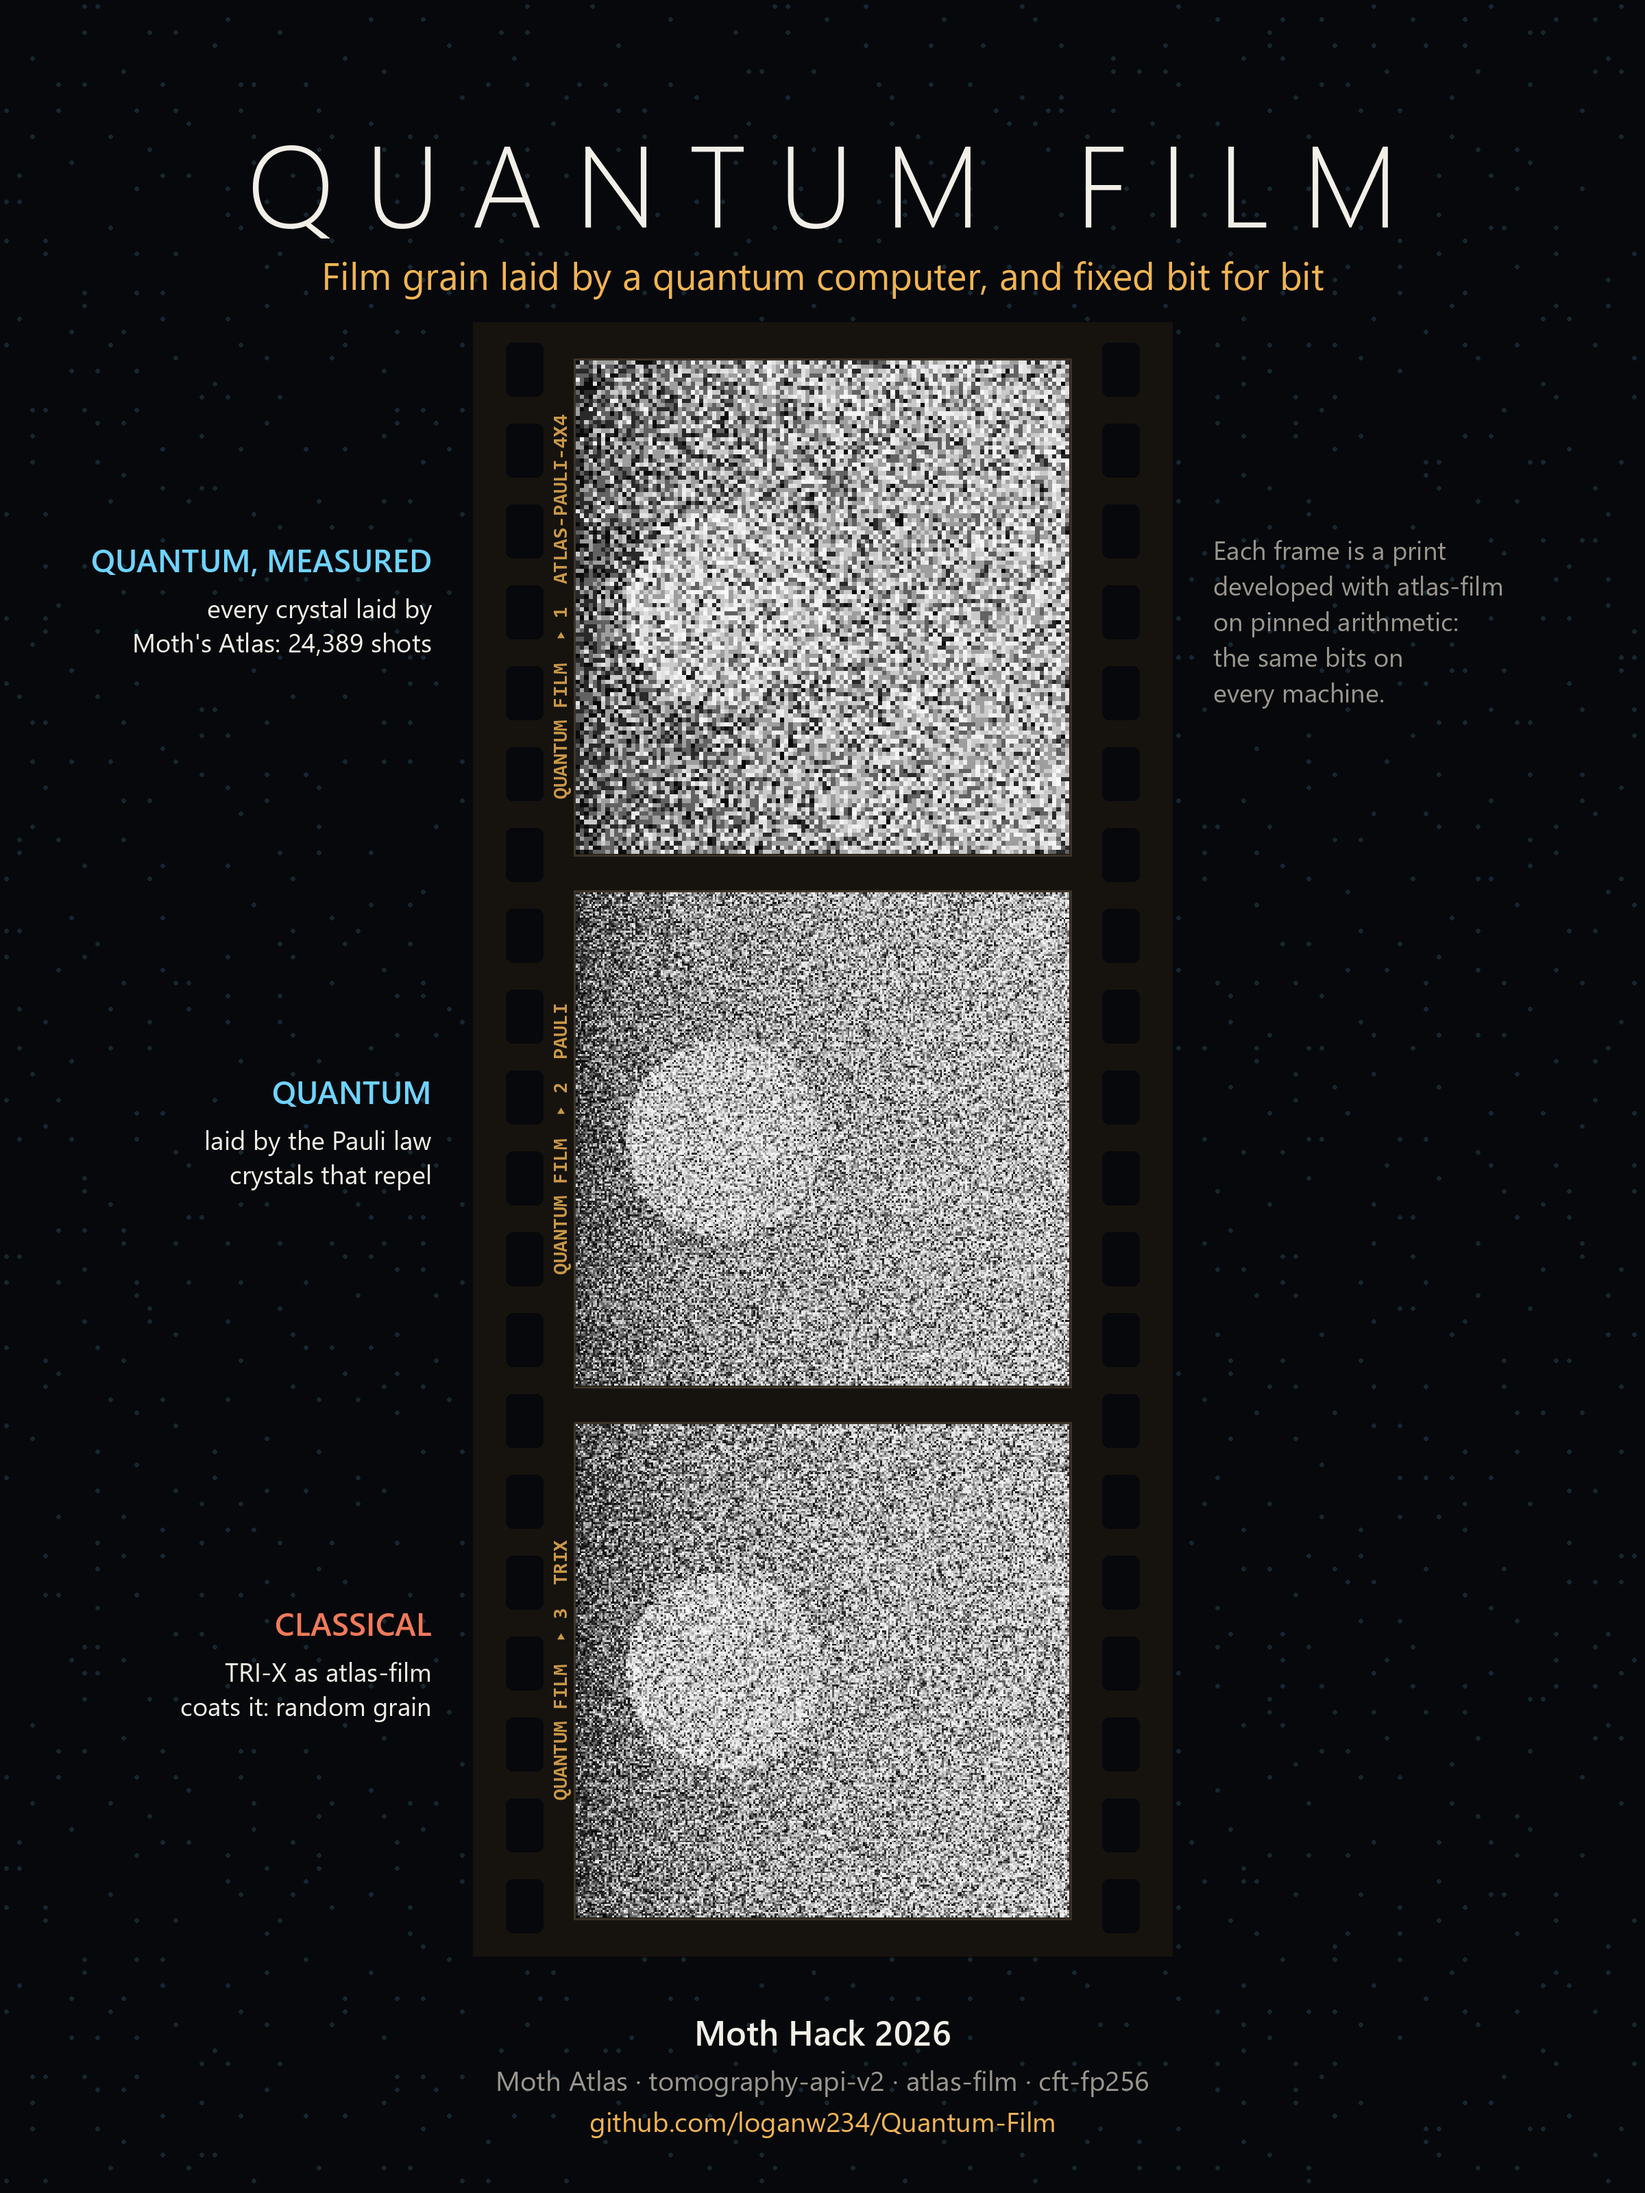
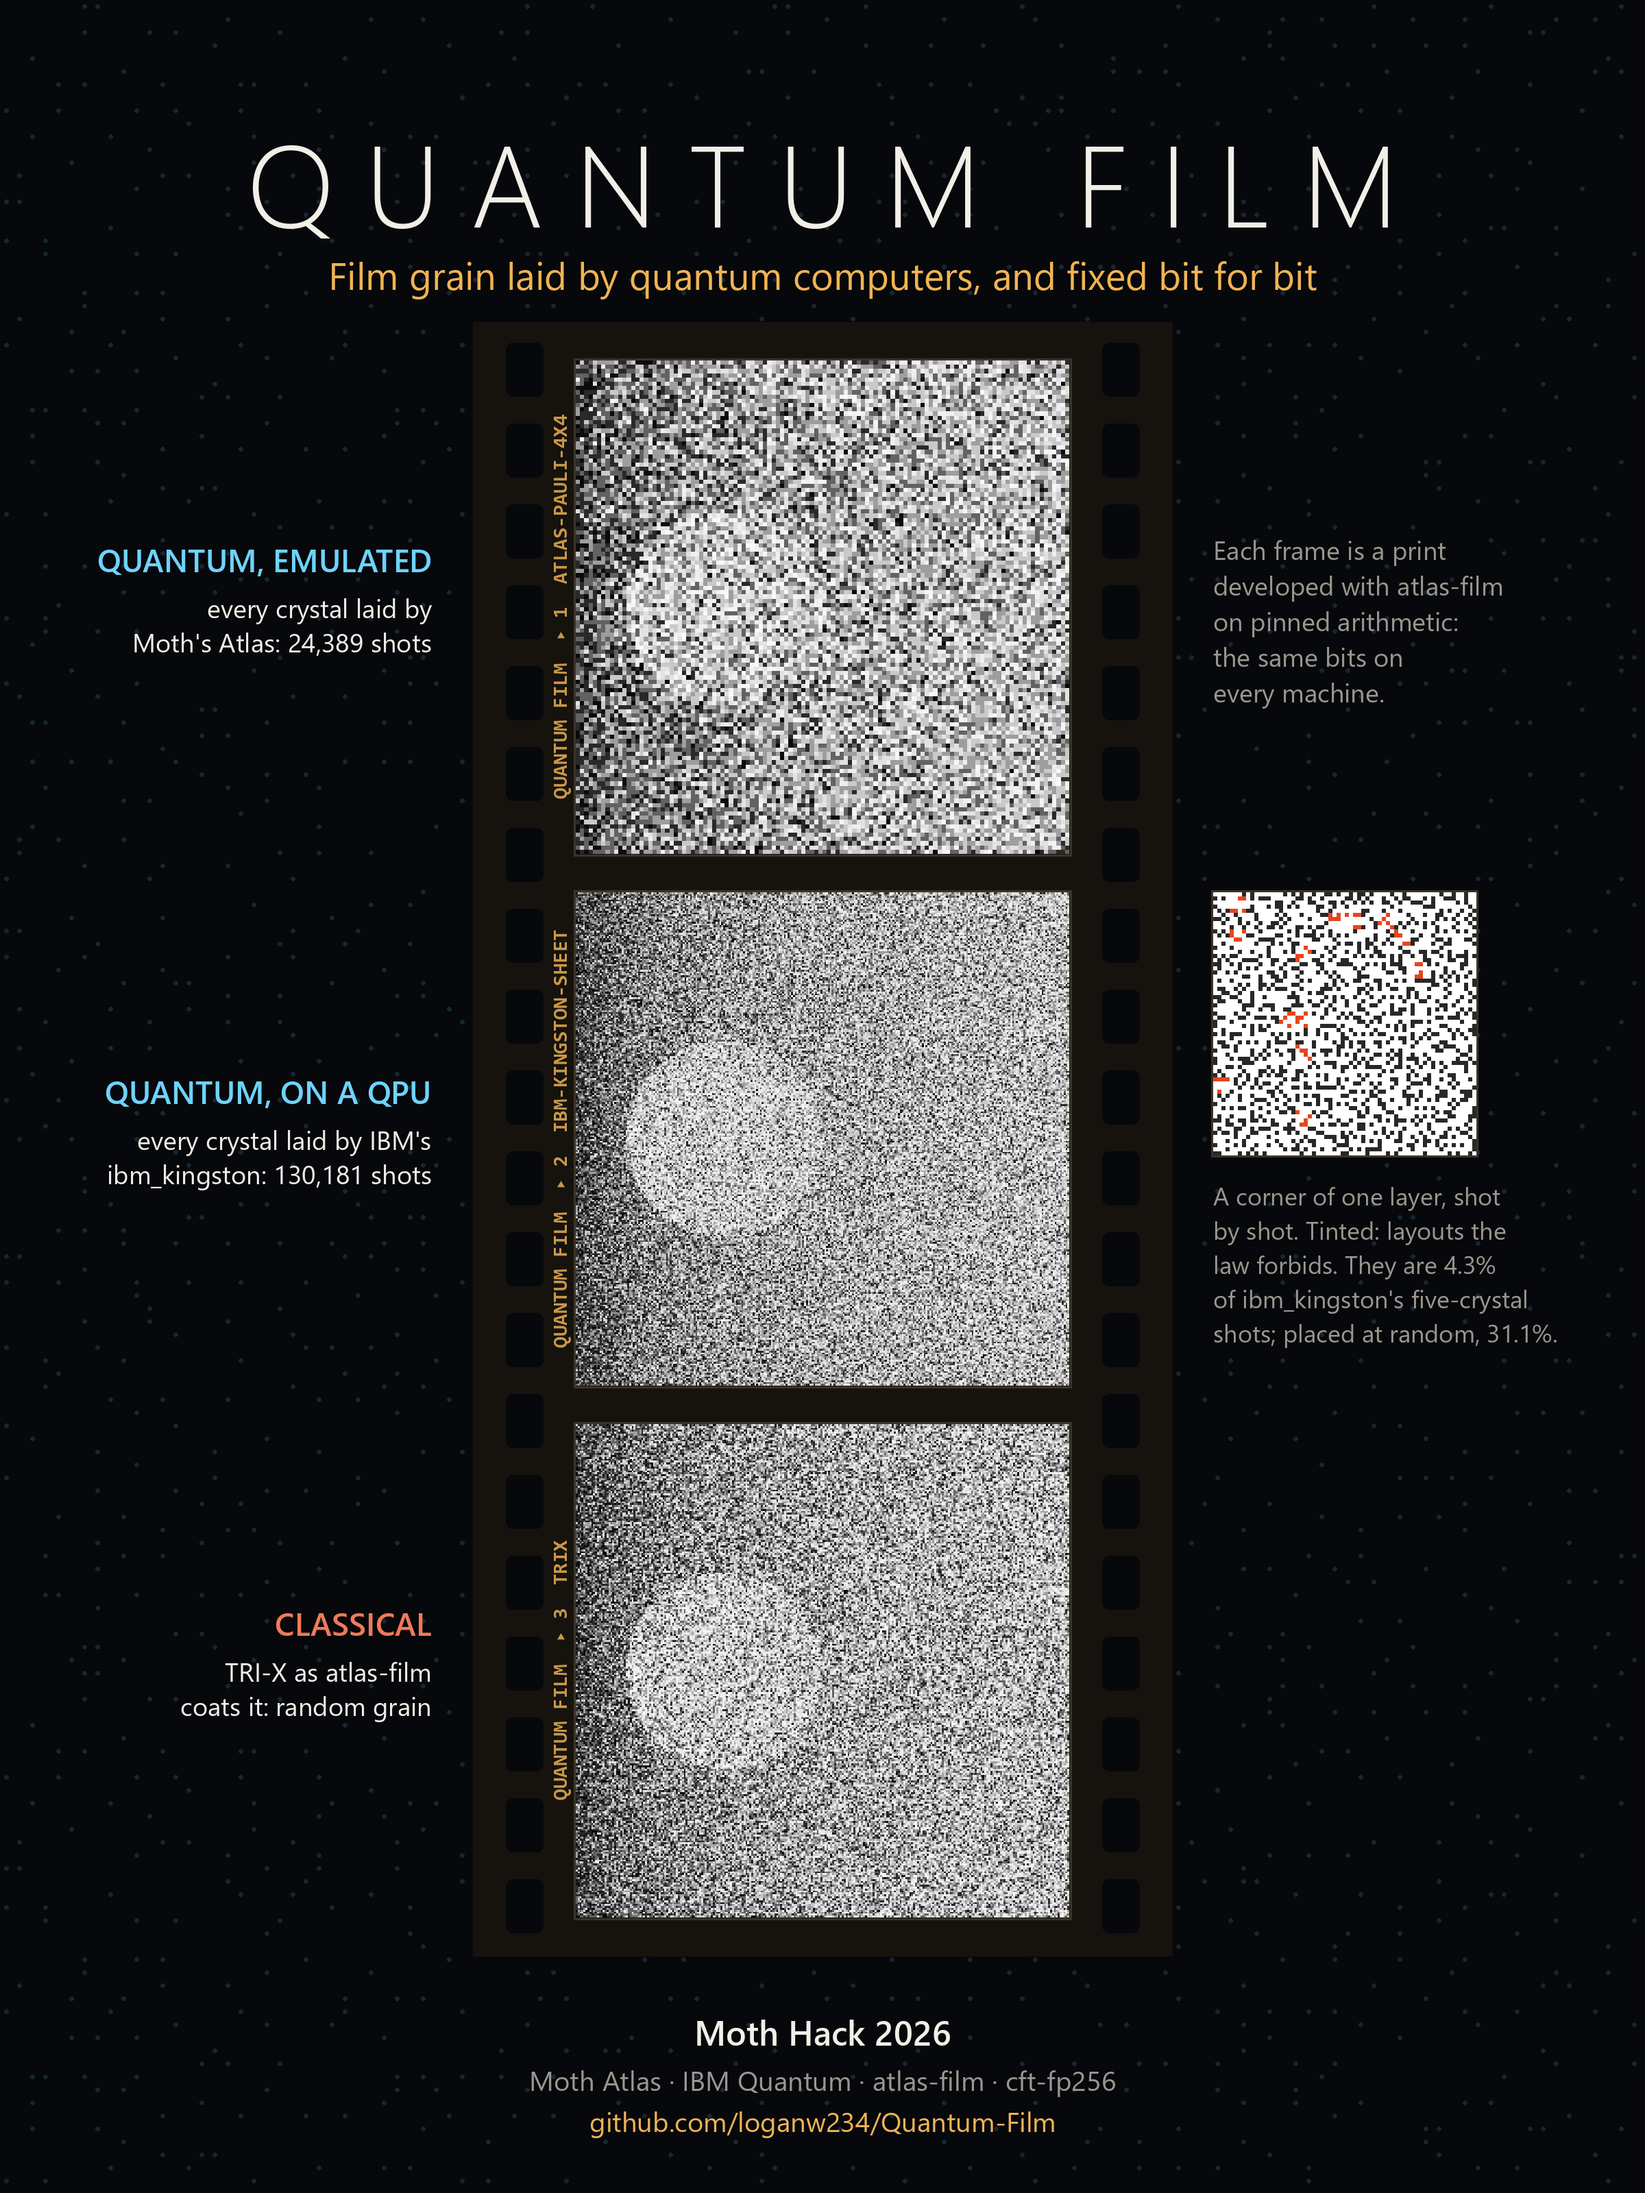
The poster: ibm_kingston's sheet as the middle frame, between Atlas's and TRI-X's, with a corner of one layer beside it, the layouts the law forbids tinted, and their share against random placement's

diff --git a/site/index.html b/site/index.html
@@ -13,7 +13,7 @@
 <meta property="og:image:type" content="image/png">
 <meta property="og:image:width" content="2400">
 <meta property="og:image:height" content="3200">
-<meta property="og:image:alt" content="The Quantum Film poster: three prints on a strip of film, the first laid by Moth's Atlas, the second by the Pauli law, the third classical TRI-X grain.">
+<meta property="og:image:alt" content="The Quantum Film poster: three prints on a strip of film, the first laid by Moth's Atlas emulator, the second by IBM's ibm_kingston quantum computer, the third classical TRI-X grain.">
 <meta name="twitter:card" content="summary_large_image">
 <link rel="stylesheet" href="style.css">
 <script type="importmap">

diff --git a/tools/poster.py b/tools/poster.py
@@ -1,11 +1,13 @@
 #!/usr/bin/env python3
-"""The poster: three real prints on a strip of 35 mm film, over a field of real Pauli crystals.
+"""The poster: three real prints on a strip of 35 mm film, over a field of real Pauli crystals: the shelf's law laid
+by Moth's Atlas emulator, then by one of IBM's quantum computers, then classical TRI-X grain.
 
     python tools/poster.py
 
 Writes docs/prints/poster.png (2400 x 3200) and a copy in site/img/. Every grain on it comes from a committed
 record: the frames are docs/prints/'s prints, and the faint dots behind them are site/data/fields.json's golden
-Pauli layer. Fonts are Windows' Segoe UI and Consolas; elsewhere a similar font stands in.
+Pauli layer. The two shares it states are read from site/data/hardware.json (tools/site_data.py). Fonts are Windows'
+Segoe UI and Consolas; elsewhere a similar font stands in.
 """
 if __name__ != "__main__":
     raise ImportError("this script writes files when it runs; run it, never import it (CLAUDE.md)")
@@ -20,9 +22,10 @@ ROOT = pathlib.Path(__file__).resolve().parent.parent
 PRINTS = ROOT / "docs" / "prints"
 W, H = 2400, 3200
 BG, INK, DIM, AMBER, CYAN = (7, 8, 11), (242, 239, 232), (154, 151, 143), (240, 180, 84), (111, 211, 255)
-FRAMES = [("atlas-pauli-4x4", "QUANTUM, MEASURED", "every crystal laid by", "Moth's Atlas: 24,389 shots"),
-          ("pauli", "QUANTUM", "laid by the Pauli law", "crystals that repel"),
+FRAMES = [("atlas-pauli-4x4", "QUANTUM, EMULATED", "every crystal laid by", "Moth's Atlas: {atlas} shots"),
+          ("ibm-kingston-sheet", "QUANTUM, ON A QPU", "every crystal laid by IBM's", "ibm_kingston: {kingston} shots"),
           ("trix", "CLASSICAL", "TRI-X as atlas-film", "coats it: random grain")]
+INSET = 64, 6       # the IBM frame's inset: a corner of one layer of its sheet, cells across and pixels a cell
 
 
 def font(names, size):
@@ -66,7 +69,7 @@ def main():
 
     # the title
     spaced(d, (W / 2, 150), "QUANTUM FILM", LIGHT(168), INK, 46)
-    sub = "Film grain laid by a quantum computer, and fixed bit for bit"
+    sub = "Film grain laid by quantum computers, and fixed bit for bit"
     d.text((W / 2, 400), sub, font=REG(56), fill=AMBER, anchor="mm")
 
     # the strip
@@ -82,7 +85,12 @@ def main():
             d.rounded_rectangle((x, y, x + hole_w, y + hole_h), radius=10, fill=BG)
         y += pitch
     edge = MONO(30)
+    hw = json.loads((ROOT / "site" / "data" / "hardware.json").read_text(encoding="ascii"))
+    kingston = next(x for x in hw["devices"] if x["name"] == "ibm_kingston")
+    atlas = json.loads((PRINTS / "atlas-pauli-4x4.json").read_text(encoding="ascii"))
+    counts = {"atlas": f"{atlas['rolls']['used']:,}", "kingston": f"{kingston['day']['sheet_layouts']:,}"}
     for i, (name, kind, l1, l2) in enumerate(FRAMES):
+        l2 = l2.format(**counts)
         fy = top + gap + i * (fr + gap)
         frame = Image.open(PRINTS / f"{name}-print.png").convert("RGB").resize((fr, fr), Image.NEAREST)
         img.paste(frame, (int(W / 2 - fr / 2), int(fy)))
@@ -107,10 +115,25 @@ def main():
              "every machine."]
     for j, line in enumerate(notes):
         d.text((rx, top + gap + fr / 2 - 110 + j * 52), line, font=REG(38), fill=DIM)
+    # beside the IBM frame: a corner of one layer of its sheet, shot by shot, the layouts the law forbids tinted
+    # (tools/first_prints.py --forbidden), and their share beside random placement's
+    n, z = INSET
+    fy = top + 2 * gap + fr
+    layer = Image.open(PRINTS / "ibm-kingston-sheet-layer.png").convert("RGB")
+    if layer.size != (kingston["day"]["sheet_columns"],) * 2:
+        raise SystemExit("the IBM layer view is not one pixel a cell of the sheet; the inset would misstate its scale")
+    img.paste(layer.crop((0, 0, n, n)).resize((n * z, n * z), Image.NEAREST), (int(rx), int(fy)))
+    d.rectangle((rx - 3, fy - 3, rx + n * z + 2, fy + n * z + 2), outline=(60, 52, 40), width=3)
+    pct = lambda x: f"{100 * x:.1f}%"  # noqa: E731
+    forb = ["A corner of one layer, shot", "by shot. Tinted: layouts the",
+            f"law forbids. They are {pct(kingston['day']['forbidden_share'])}", "of ibm_kingston's five-crystal",
+            f"shots; placed at random, {pct(hw['twin']['forbidden_share'])}."]
+    for j, line in enumerate(forb):
+        d.text((rx, fy + n * z + 34 + j * 50), line, font=REG(36), fill=DIM)
 
     # the foot
     d.text((W / 2, bottom + 110), "Moth Hack 2026", font=SEMI(50), fill=INK, anchor="mm")
-    d.text((W / 2, bottom + 180), "Moth Atlas · tomography-api-v2 · atlas-film · cft-fp256",
+    d.text((W / 2, bottom + 180), "Moth Atlas · IBM Quantum · atlas-film · cft-fp256",
            font=REG(40), fill=DIM, anchor="mm")
     d.text((W / 2, bottom + 240), "github.com/loganw234/Quantum-Film", font=REG(40), fill=AMBER, anchor="mm")
 

diff --git a/docs/VALIDATION.md b/docs/VALIDATION.md
@@ -1779,3 +1779,22 @@ so the whole image changes. Instead, each crystal column's forbidden crystals ar
 - **A correction to the entry "round 3's IBM runs".** It gives marrakesh's <X0X1> as +0.314. Its value is
   1,284/4,096 = 0.31348, which rounds to +0.313: the +0.314 was a second rounding of the table's 0.3135. The tables
   in docs/HARDWARE-RESULTS.md (0.3135) are right.
+
+## 2026-10-05 - the poster shows an IBM print and the forbidden shots
+
+- **tools/poster.py, at the owner's word.**
+  - The strip's middle frame was the golden Pauli print. It is now ibm_kingston's sheet, laid from 130,181
+    five-crystal shots, so the strip runs Atlas (emulated), IBM (a QPU), then TRI-X (classical).
+  - The subtitle says "quantum computers", and the foot names IBM Quantum in place of tomography-api-v2.
+  - Beside the IBM frame is an inset: the top-left 64 x 64 cells of one layer of its sheet, shot by shot, with the
+    layouts the law forbids tinted (docs/prints/ibm-kingston-sheet-layer.png, at 6 pixels a cell). Under it is
+    the share: 4.3% of ibm_kingston's five-crystal shots, against 31.1% for random placement.
+- **Every count and share on the poster is read when it is drawn:**
+  - the shots from the prints' records (atlas-pauli-4x4.json and site/data/hardware.json's sheet_layouts);
+  - the shares from site/data/hardware.json, which tests/docs/test_site.py recomputes from the runs.
+
+  The script refuses a layer image that is not one pixel a cell of the sheet it names.
+- **Still 2400 x 3200, and site/img/poster.png is byte for byte docs/prints/poster.png** (test_site). The Open
+  Graph alt text and the README's description now name the IBM frame. The README's list of what the web demo
+  holds gains its two new sections.
+- Not held: the poster's prose. As before, no verifier read it (docs/ROADMAP.md).

diff --git a/README.md b/README.md
@@ -144,7 +144,12 @@ the committed record, and saves every number above in
   [loganw234.github.io/Quantum-Film](https://loganw234.github.io/Quantum-Film/),
   is the static page in site/. It holds:
   - an animated story of how film grain forms, classically and on Atlas;
-  - A|B sliders over classical and quantum crystals and prints;
+  - A|B sliders over classical and quantum crystals and prints, and each IBM
+    sheet beside the exact law's and random placement's;
+  - the IBM results beside the exact law, the emulator and random placement,
+    with a sheet from each device;
+  - the forbidden shots: why the law forbids them, how hardware lays them
+    anyway, each sheet with them tinted, and the commonest ones as tiles;
   - a tile you roll crystal by crystal, to watch the Pauli exclusion hole
     open.
 
@@ -154,7 +159,9 @@ the committed record, and saves every number above in
   captions included. For a screen recorder, open it as `?solo&play`: the stage
   alone, filling the window, playing on its own.
 - **The poster** is [docs/prints/poster.png](docs/prints/poster.png): three real
-  prints on a strip of film (tools/poster.py).
+  prints on a strip of film, laid by Atlas, by ibm_kingston and by TRI-X's
+  random grain. Beside ibm_kingston's is a corner of one layer of its sheet,
+  the layouts the law forbids tinted (tools/poster.py).
 - **The paper**, *Chance, made permanent*, is
   [docs/chance-made-permanent.pdf](docs/chance-made-permanent.pdf): the law, the
   circuit on Atlas, the fixer, the prints and what comes next (a whole frame,
